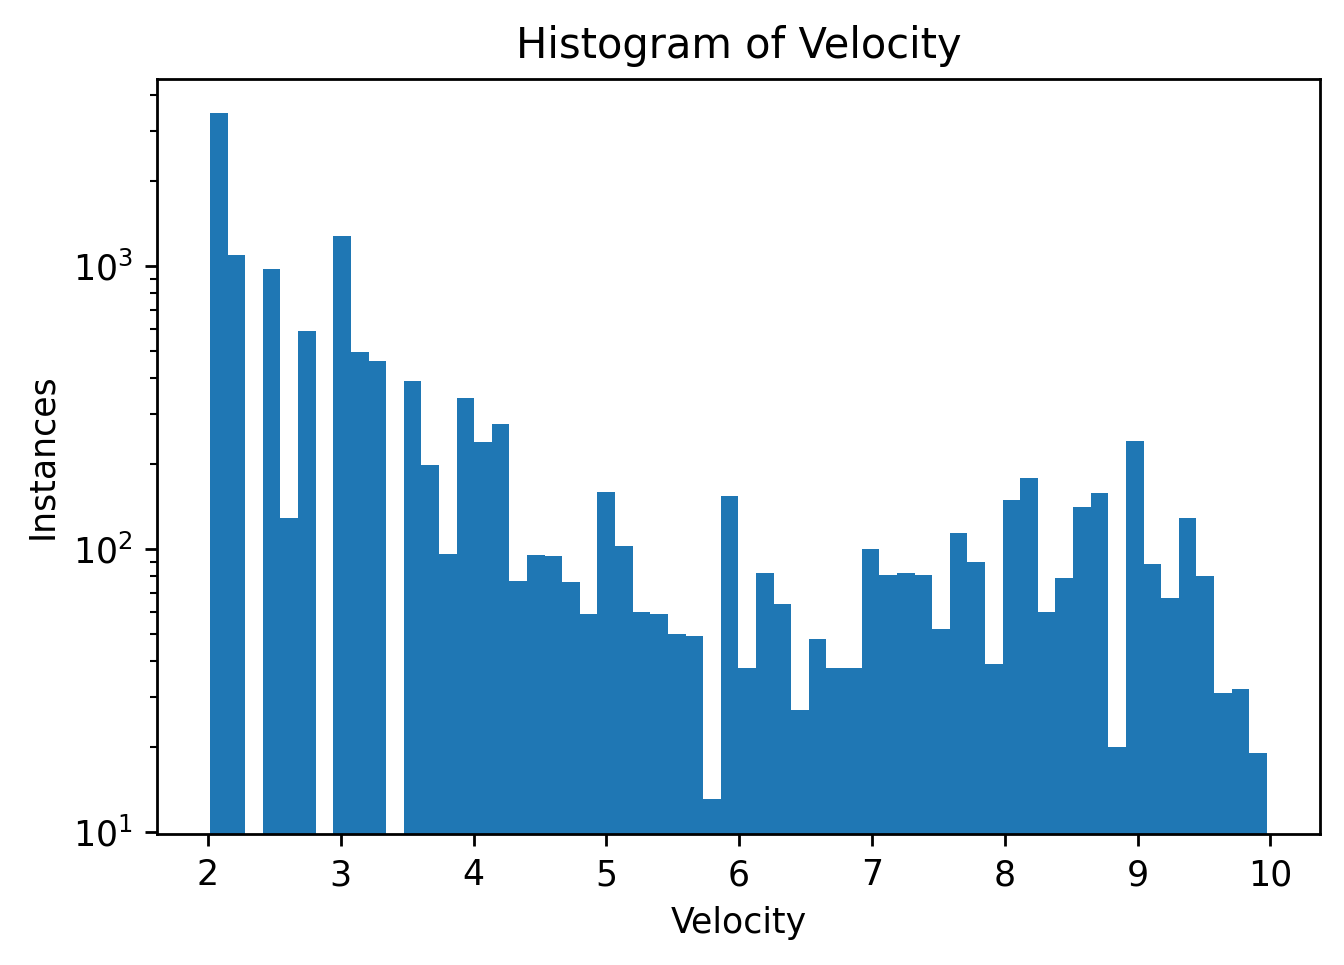
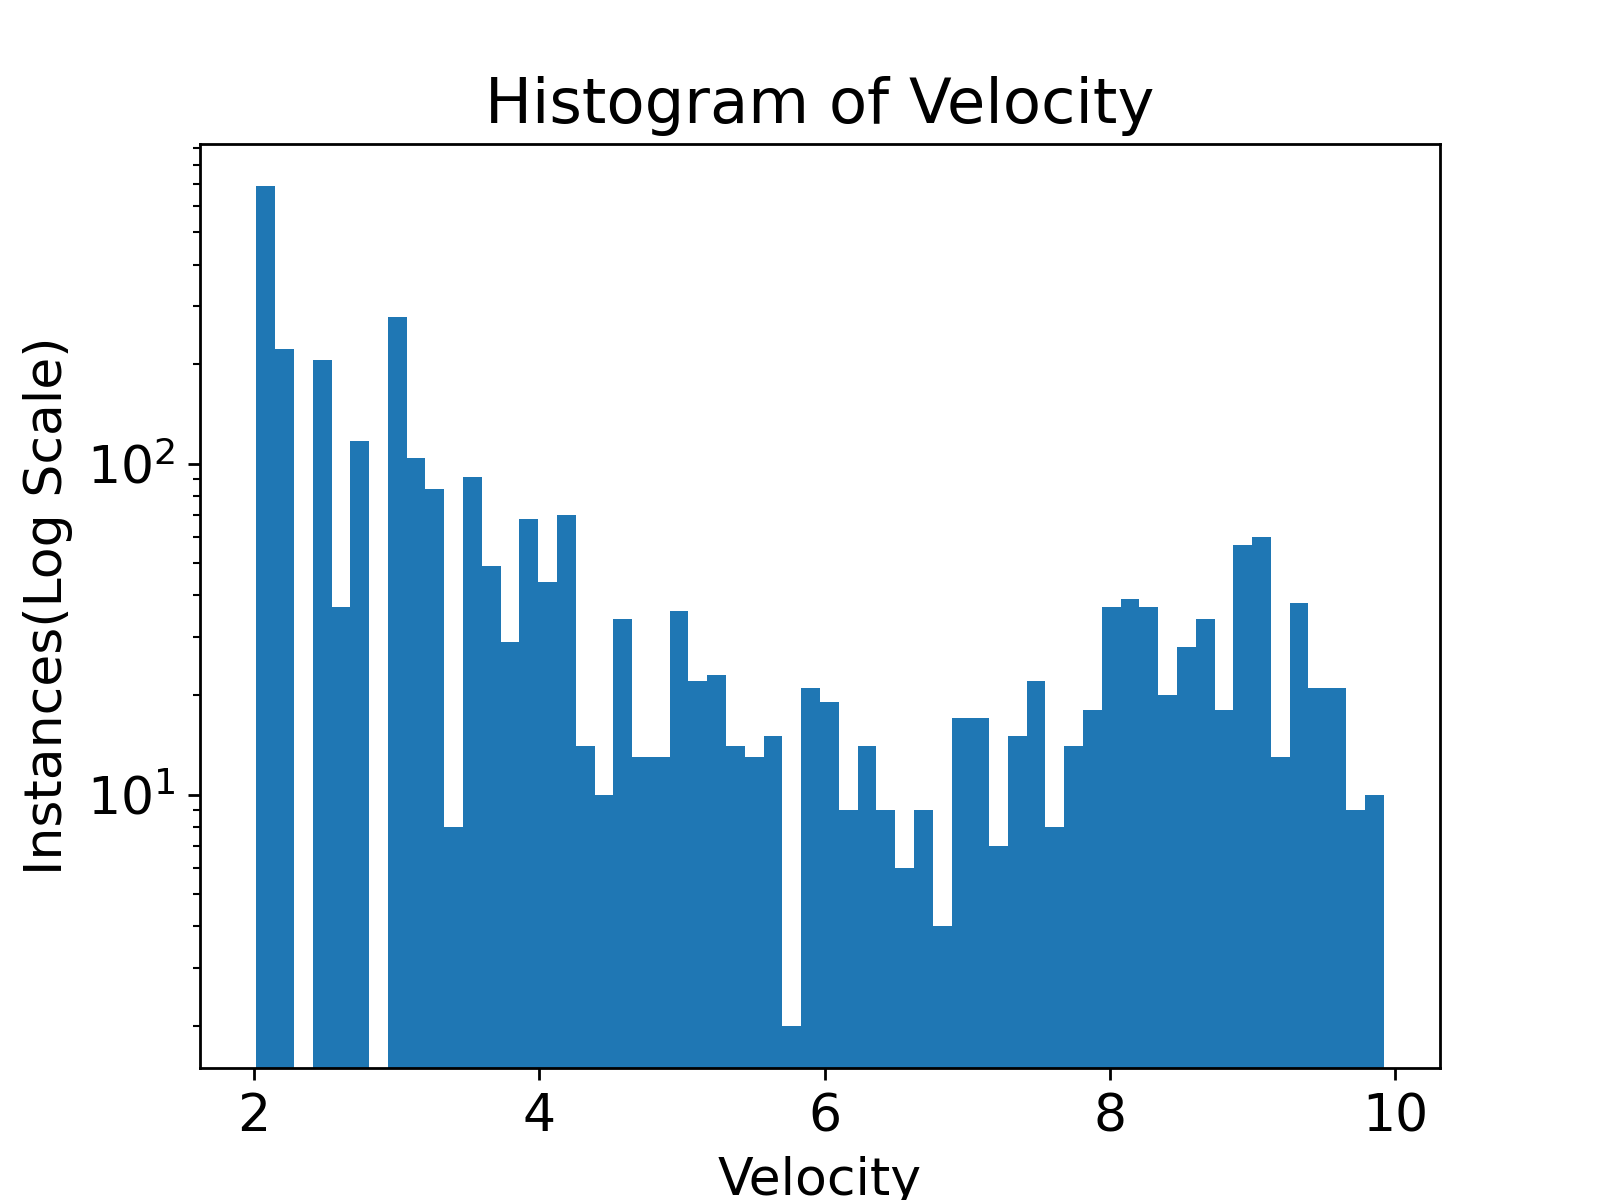
Modified GPS Speed files

Changed region(s): [[0.0625, 0.0933, 1.0, 1.0], [0.0, 0.1244, 0.125, 0.8083], [0.2812, 0.0311, 0.75, 0.1244]]

diff --git a/Running_Labels_Sync.py b/Running_Labels_Sync.py
@@ -1,0 +1,63 @@
+import numpy as np
+import pandas as pd
+import os
+from pathlib import Path
+from collections import defaultdict
+import shutil
+
+import config
+GROUPS = config.GROUPS
+#GROUPS = ['NQ_2021_1','RW_2021_1','ZU_2021_2']
+
+for k in GROUPS:
+    ACCPath = '/media/amlan/Data/Thesis Data/Processed Data/'+k+'/ACC/'
+    ModelData = '/media/amlan/Data/Thesis Data/Processed Data/'+k+'/ModelData/'
+    RunningPath = '/media/amlan/Data/Thesis Data/Processed Data/'+k+'/RunningLabels/' 
+    
+    os.makedirs(ModelData, exist_ok=True)
+
+    ACCpaths = os.listdir(ACCPath)
+    Labelpaths = os.listdir(LabelPath)
+    
+    sync_dict = defaultdict(list)
+
+    for i in ACCpaths:
+        for j in Labelpaths:
+            if i.split('_')[1] in j and i.split('_')[-1] in j: 
+                sync_dict[i].append(j)
+            
+    for i in sync_dict.keys():
+        
+        main_file = pd.read_csv(ACCPath + i,index_col=0)
+        side_files = pd.DataFrame(columns=['Timestamp','Behavior'])
+        
+        for j in sync_dict[i]:
+            label_files = pd.read_csv(LabelPath + j,index_col=0)
+            # label_files = label_files[label_files['Behavior']!='Running'] #Excludes videos running bouts
+            side_files = pd.concat([side_files,label_files])
+            #try:
+            #    running_files =  pd.read_csv(RunningPath + j,index_col=0) #Includes GPS running Bouts
+            #    side_files = pd.concat([side_files,running_files])
+            #    side_files = side_files.drop_duplicates(subset=['Timestamp'])
+           # except:
+           #     pass
+            side_files = side_files.reset_index(drop=True)
+       
+        training_data = pd.merge(main_file, side_files, on=['Timestamp'],how='inner')
+        filename = i.split('_')
+        training_data['Group'] = filename[0]
+        training_data['Individual'] = filename[1]
+        if k == 'NQ_2021_1':
+            training_data['Axy'] = filename[4]
+        else:
+            training_data['Axy'] = filename[3][3:]
+
+        if training_data.empty:
+                pass
+        else:
+                training_data.to_csv(ModelData + '_'.join(filename[0:2]) + '_' + filename[-1])    
+                train_data = pd.concat([train_data,training_data])  
+                print('_'.join(filename[0:2]) + '_' + filename[-1]) 
+        
+
+train_data.to_csv('/media/amlan/Data/Thesis Data/Processed Data/'+'train_data.csv')

diff --git a/GPS_Speeds.py b/GPS_Speeds.py
@@ -9,6 +9,8 @@ import random
 import shutil
 import config
 
+plt.rcParams.update({'font.size': 15})
+
 GROUPS = config.GROUPS
 ProcessedPath = config.SavePath
 
@@ -87,7 +89,7 @@ plt.figure(dpi=250)
 plt.hist((Velo[(Velo>2) & (Velo<10)]),bins=60) 
 plt.title('Histogram of Velocity')
 plt.xlabel('Velocity')
-plt.ylabel('Instances')
+plt.ylabel('Instances(Log Scale)')
 plt.yscale('log')
 plt.show()
 
